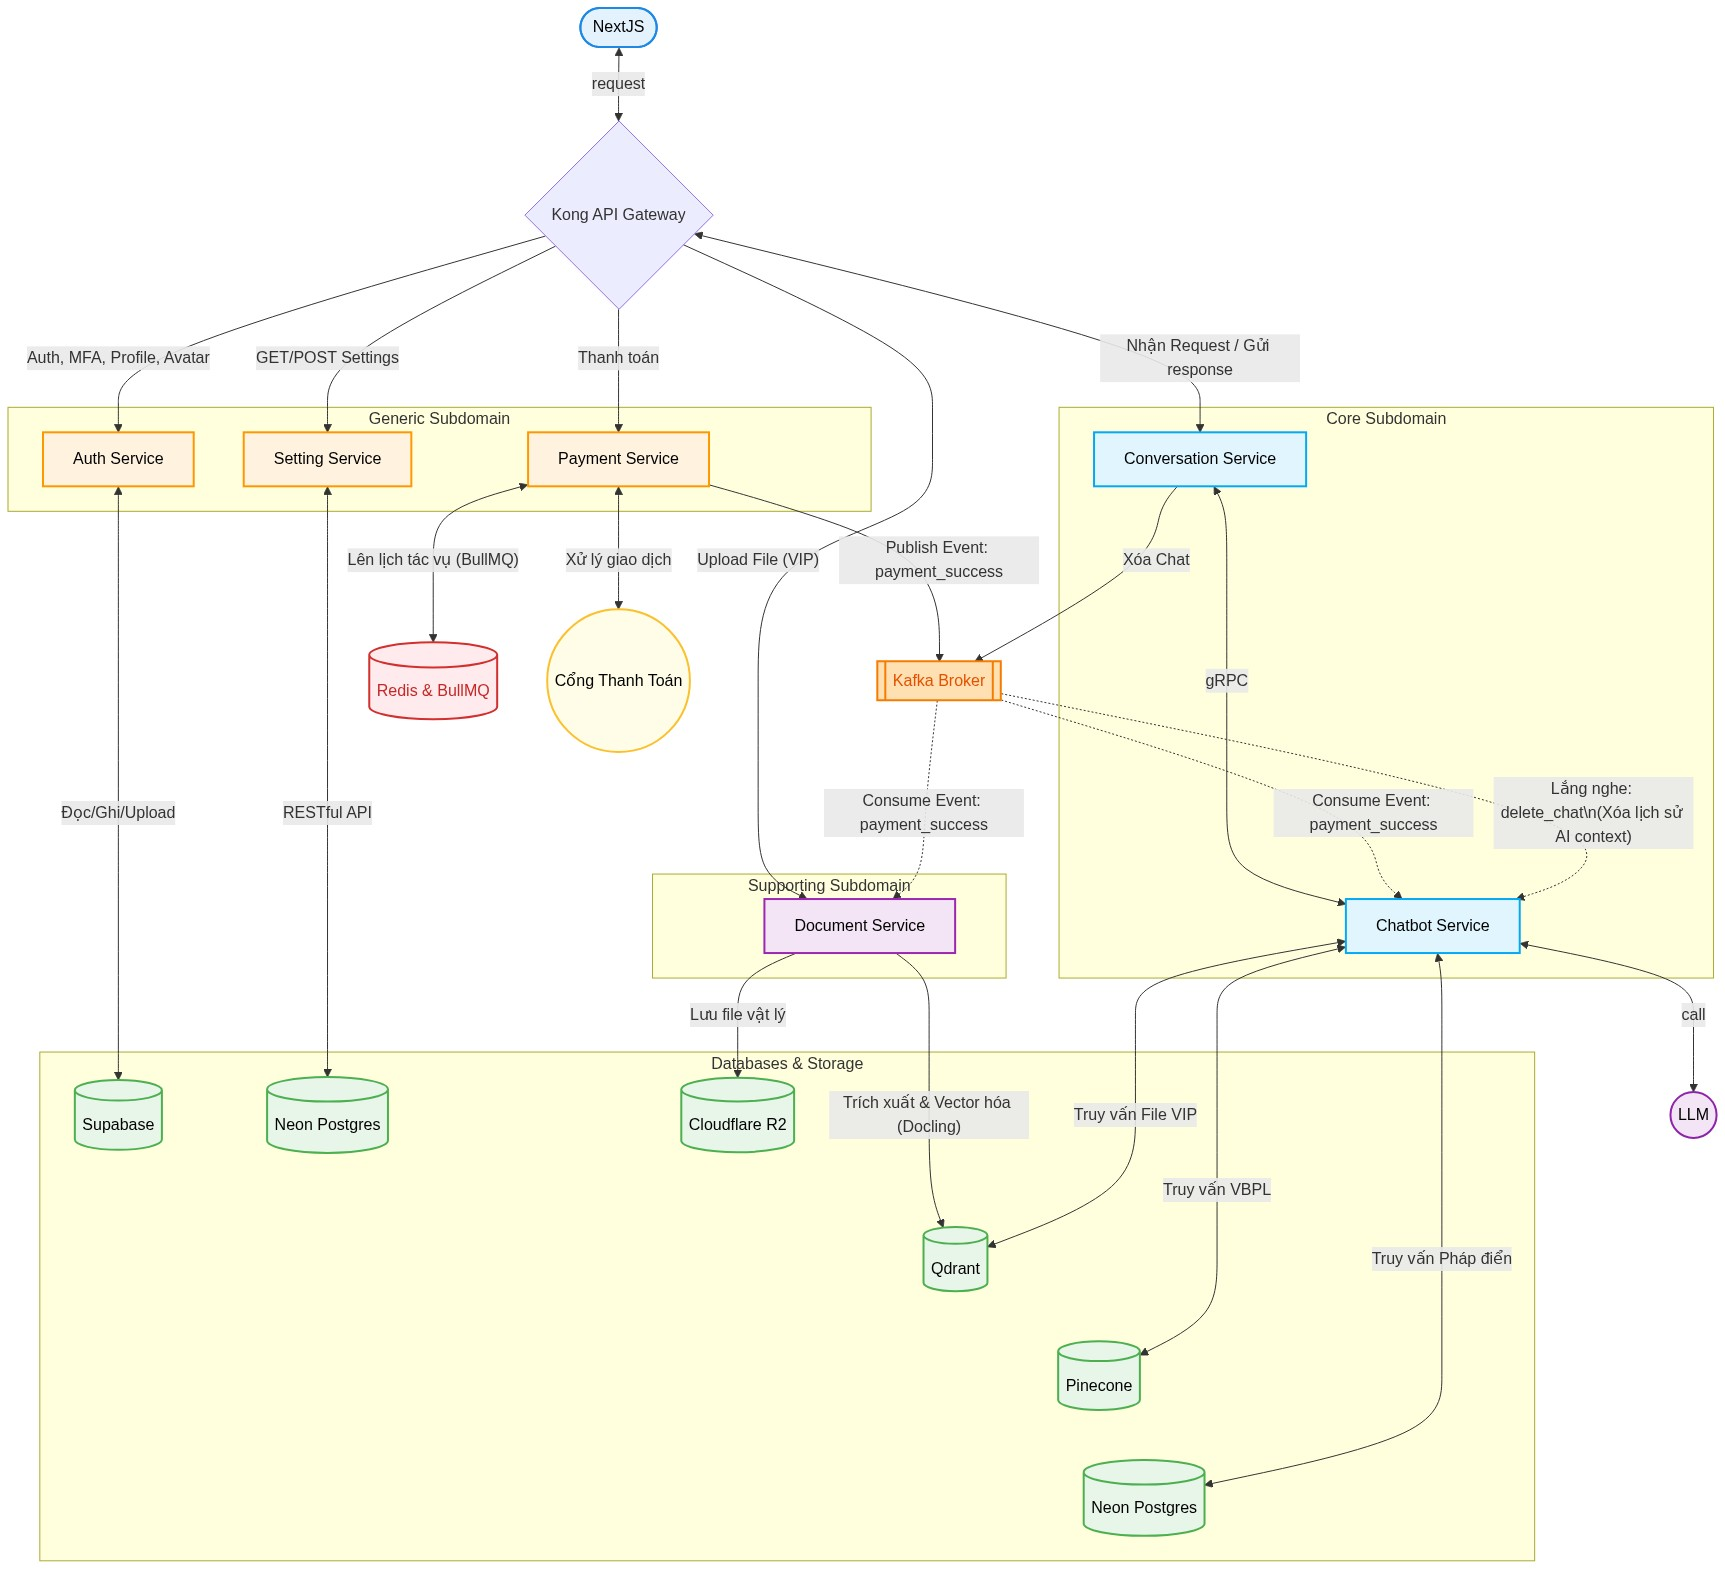
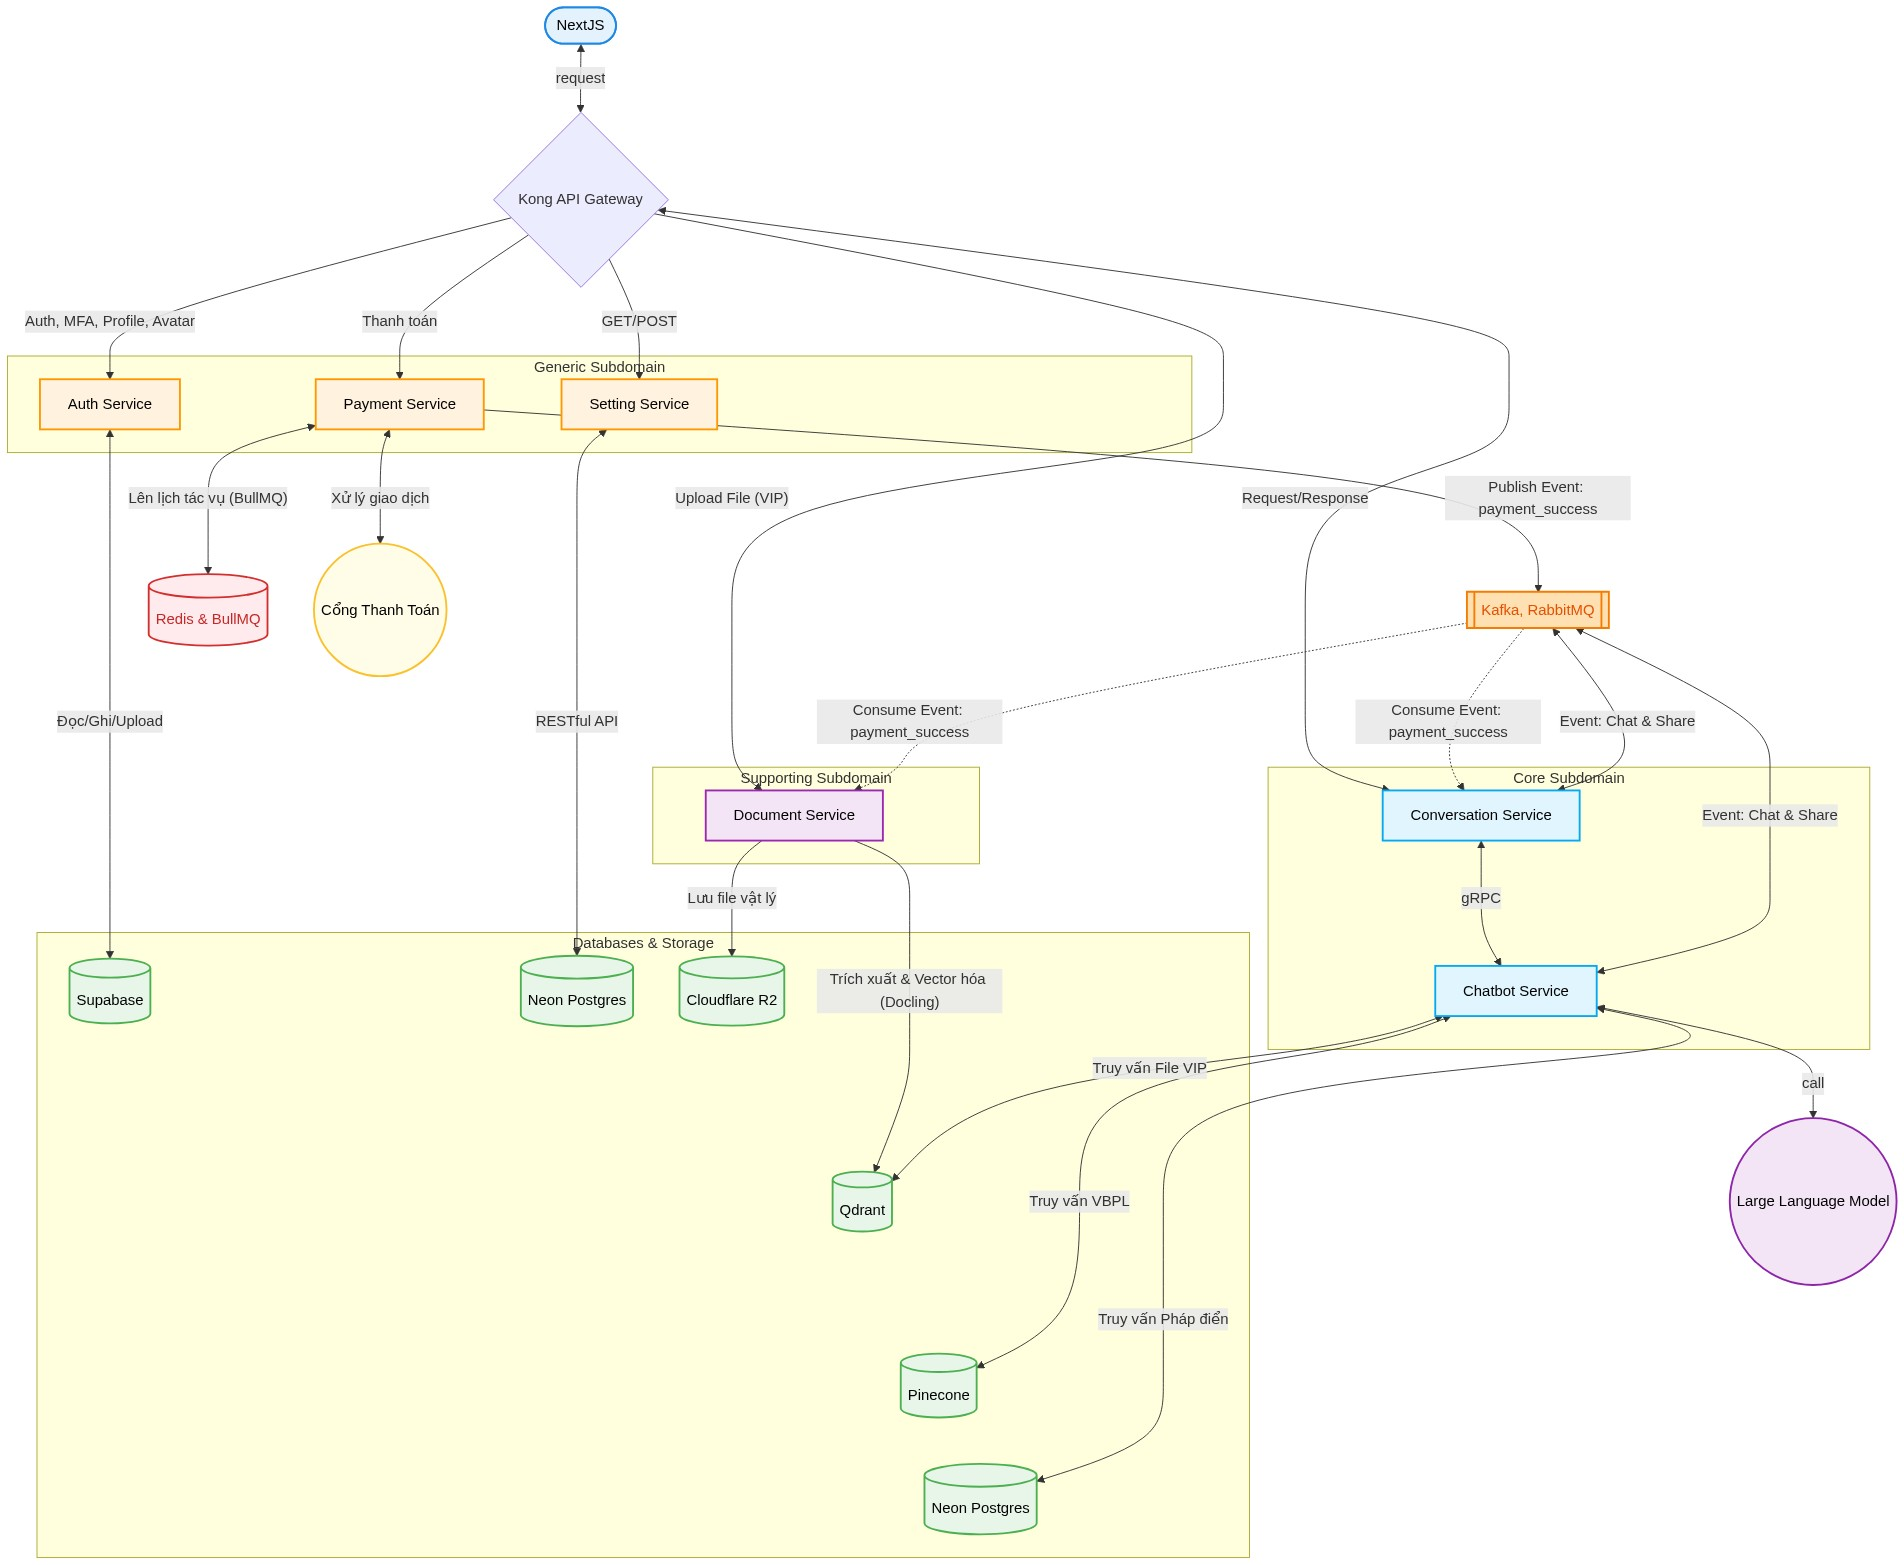
1

diff --git a/docs/1. Tổng quan đề tài/1.3. Bài toán nghiệp vụ/1.md b/docs/1. Tổng quan đề tài/1.3. Bài toán nghiệp vụ/1.md
@@ -30,6 +30,9 @@ Hệ thống hỗ trợ người dùng hỏi đáp pháp luật Việt Nam, phâ
     - [x] Người dùng lựa chọn nhân vật để trò chuyện giọng nói
     - [x] Quản lý nhân vật (cần vai trò ADMIN)
     - [x] Quản lý giọng nói (cần vai trò ADMIN)
+  - [x] Báo cáo Data pipeline
+    - [x] Báo cáo thông tin Data pipeline của văn bản pháp luật
+    - [x] Báo cáo thông tin Data pipeline của Pháp Điển
 
 - Miền phụ hỗ trợ giúp miền phụ cốt lõi không bị phình to. Tách nhỏ việc quản lý nhân vật, giọng nói và quá trình xử lý tài liệu tiêu tốn nhiều tài nguyên hệ thống.
 
@@ -51,9 +54,9 @@ Hệ thống hỗ trợ người dùng hỏi đáp pháp luật Việt Nam, phâ
     - [x] Quản lý các gói (cần vai trò ADMIN)
     - [x] Người dùng mua gói VIP để nâng cấp tài khoản
     - [x] Lưu lịch sử giao dịch
-  - [x] Chức năng Dashboard của ADMIN
-    - [x] Báo cáo thông tin Data pipeline của văn bản pháp luật
-    - [x] Báo cáo thông tin Data pipeline của Pháp Điển
+
+
+
 
 - Việc áp dụng các giải pháp có sẵn như Supabase (Auth) hay Neon API (Settings) là một chiến lược thông minh để rút ngắn thời gian phát triển. Đặc biệt là việc tích hợp 2FA, điều kiện tiên quyết cho các hệ thống xử lý hợp đồng và dữ liệu pháp luật mang tính nhạy cảm.
 

diff --git a/docs/2. Công nghệ sử dụng/3.3. Chi tiết về các dịch vụ/0.md b/docs/2. Công nghệ sử dụng/3.3. Chi tiết về các dịch vụ/0.md
@@ -1,7 +1,11 @@
 # Tổng quan các Microservice của hệ thống
 
-![alt text](0.png)
-
-# microservice
-
 Tất cả các service đều dùng https://[PROJECT_REF].supabase.co/auth/v1/.well-known/jwks.json để xác thực token.
+
+<!-- ![alt text](0.png) -->
+
+<!-- ![alt text](0.excalidraw.png) -->
+
+![alt text](00.excalidraw.png)
+
+<!-- # microservice -->
